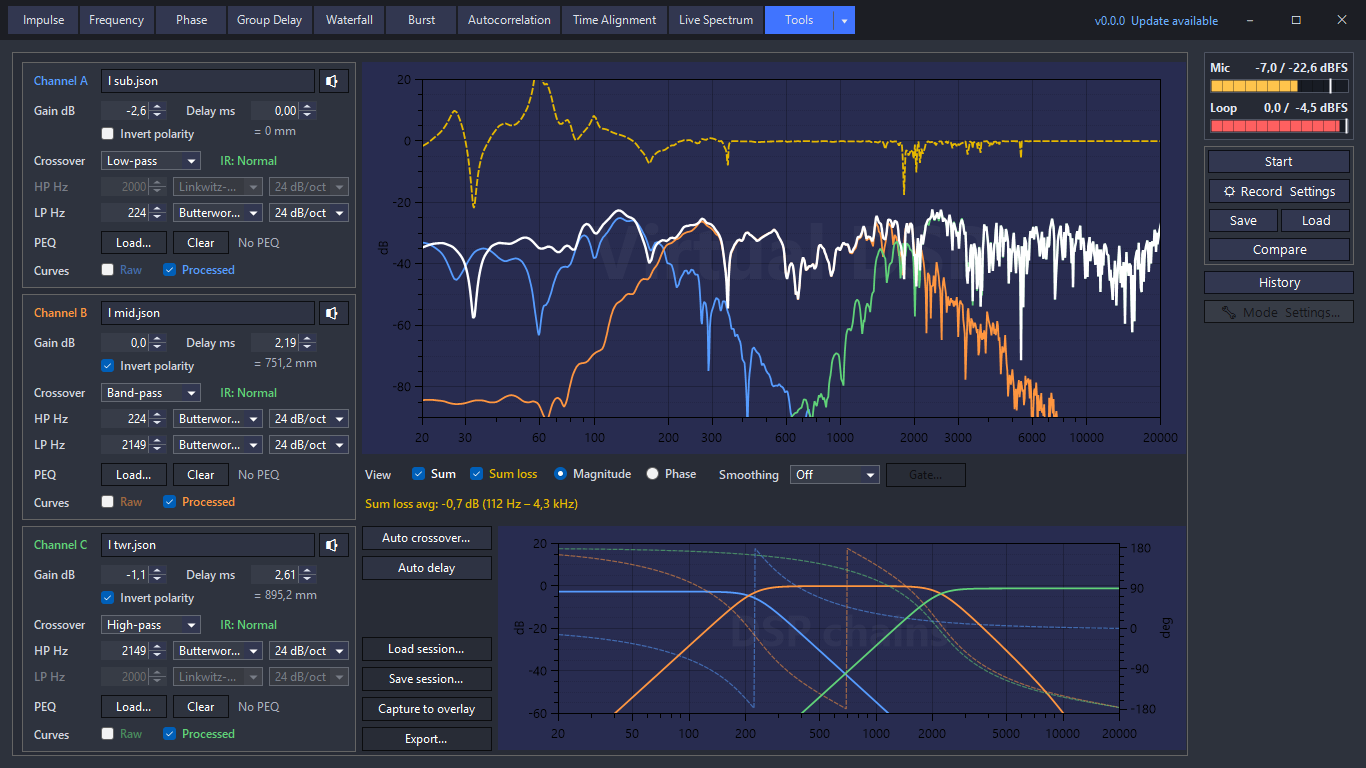
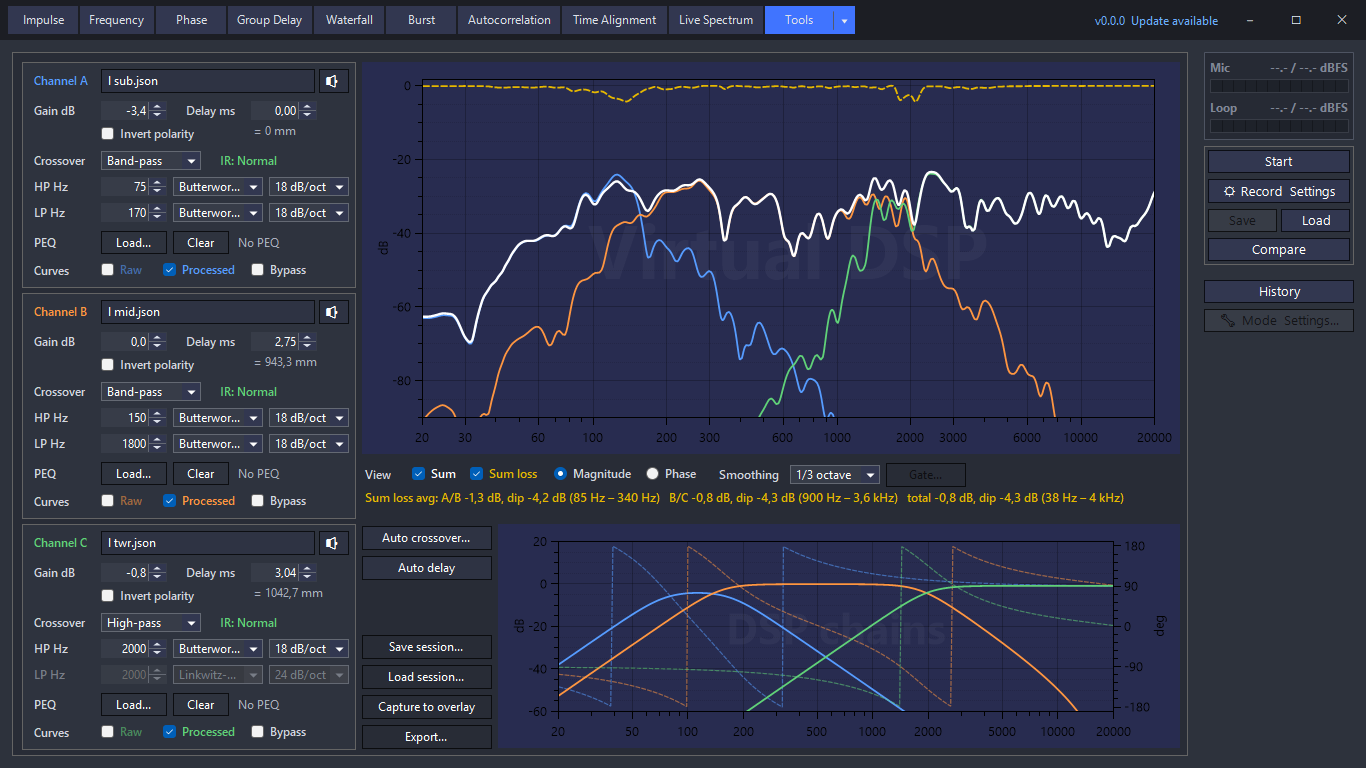
Readme

diff --git a/source/Tools/VirtualCrossoverPanel.Designer.cs b/source/Tools/VirtualCrossoverPanel.Designer.cs
@@ -286,7 +286,7 @@ namespace Resonalyze
             labelMetric.AutoSize = true;
             labelMetric.Font = new Font("Segoe UI Semibold", 9F, FontStyle.Regular, GraphicsUnit.Point, 204);
             labelMetric.ForeColor = Color.FromArgb(230, 184, 0);
-            labelMetric.Location = new Point(349, 434);
+            labelMetric.Location = new Point(349, 437);
             labelMetric.Name = "labelMetric";
             labelMetric.Size = new Size(95, 15);
             labelMetric.TabIndex = 15;

diff --git a/README.md b/README.md
@@ -103,6 +103,10 @@ file is provided with every release.
 - Mandatory loopback-referenced sweep processing: every measurement captures a
   loopback reference, and all analysis is derived from the resulting transfer
   function (harmonics and THD+N stay on the sweep deconvolution)
+- Multi-sweep averaging (1–64 runs) combined as a cross-spectrum transfer
+  estimate to lift the signal-to-noise ratio, with a per-frequency **coherence**
+  (γ²) curve in the Frequency Response, Phase, and Group Delay views and an
+  optional confirm-between-runs pause for spatial averaging
 - Time Alignment with sub-sample delay estimation from the transfer IR
 - Crossover summation prediction: the true **complex (vector) sum** of two
   measurements (`Main ⊕ Compare`) with Compare delay/polarity controls, plus a
@@ -157,6 +161,12 @@ Resonalyze is built around a focused engineering workflow:
   Measurements can use a recorded loopback channel as the time reference, so
   delay and transfer-function analysis are tied to the actual playback path
   instead of to guesswork.
+- **Repeatable, confidence-scored measurements**
+  Average up to 64 sweeps into one cross-spectrum transfer estimate to pull the
+  response out of the noise, and read a per-frequency **coherence** (γ²) curve
+  that flags exactly which bands are trustworthy. An optional
+  confirm-between-runs pause turns the same path into spatial averaging across
+  microphone positions.
 - **Crossover summation prediction**
   Measure each driver once, then virtually align, combine, and optimize your
   loudspeaker system before applying a single change to the DSP.
@@ -171,7 +181,12 @@ Resonalyze is built around a focused engineering workflow:
   direct read-out of the summation loss you are dialing out. The **Virtual
   DSP** tool takes this to its conclusion: complete virtual DSP chains
   (gain, delay, polarity, crossover filters, PEQ) per driver, tuned against the
-  live predicted sum before a single setting is applied to the hardware.
+  live predicted sum before a single setting is applied to the hardware. Two
+  auto-fit modes do the tedious part: an **Auto crossover** optimizer searches
+  the crossover frequencies, filter families, slopes, and cut-only gains that
+  flatten the summed magnitude (favoring tight, minimally overlapping splits),
+  and **Auto delay** aligns each junction's delay and polarity against the
+  phase-aware sum.
 - **Practical loudspeaker alignment**
   Time Alignment reports first arrival and strongest peak with sub-sample
   interpolation, distance at 20 °C, confidence, signal levels, and a visible
@@ -228,7 +243,8 @@ comparison, and transparent data matter more than a large legacy feature set.
       <h3>Frequency Response</h3>
       <img src="assets/images/fr.jpg" alt="Frequency response plot">
       <p>One-click loudspeaker response measurement with smoothing,
-      calibration, distortion curves, overlays, and target comparison.</p>
+      calibration, distortion curves, overlays, target comparison, and an
+      optional coherence curve from averaged sweeps.</p>
     </td>
   </tr>
   <tr>
@@ -364,8 +380,13 @@ real-time analysis without capturing an IR, use the additional
    loopback channels, sweep duration, playback channel, and analysis
    parameters. A **loopback reference channel is required** — all analysis is
    derived from the transfer IR it produces, so the settings panel flags an
-   unset loopback and the measurement will not start without one.
-4. Start a recording to generate and capture the exponential sine sweep.
+   unset loopback and the measurement will not start without one. To average
+   several sweeps, set **Measurements** above `1`; enable **Confirm each run** to
+   pause before each sweep so you can reposition the microphone for spatial
+   averaging.
+4. Start a recording to generate and capture the exponential sine sweep. With
+   averaging enabled the runs are combined into one transfer IR and a coherence
+   (γ²) curve.
 5. Watch the compact input level meter to confirm microphone level, loopback
    presence, and headroom before trusting the measurement.
 6. Select the analysis view you need.
@@ -888,6 +909,8 @@ Files are saved as indented, human-readable JSON. Each file contains:
 - sweep-deconvolution impulse-response samples and peak index
 - optional loopback transfer-function impulse-response samples and peak index
   when loopback was enabled
+- optional transfer-function coherence (γ²) data when two or more sweeps were
+  averaged, plus the requested and accepted run counts
 - stored microphone and loopback Peak/RMS meter values from the measurement
 - embedded preview frequency-response data for the Measurement History panel
 
@@ -1207,6 +1230,9 @@ chain:
   the chain
 - **Mute** — temporarily remove a channel from the plots, sum, loss metric,
   overlay capture, and Auto delay without clearing its source or settings
+- **Bypass** — feed the channel's raw measured signal into the sum with the
+  whole chain skipped (no gain, delay, polarity, crossover, or PEQ), for an A/B
+  against the processed result; unlike Mute, the channel stays in the sum
 - **IR polarity** — a measured Normal / Inverted / Unknown indicator read from
   the transfer IR, independent of the virtual polarity switch
 
@@ -1230,11 +1256,28 @@ magnitude and phase (without the driver). A **Sum loss avg** read-out over the
 crossover window turns tuning into a number you can minimize — or use the
 classic null test: invert one channel and tune the delay for the deepest notch.
 
-- **Auto crossover...** estimates each channel's usable band, lets you confirm
-  the driver type, then proposes LR24 crossover points and cut-only gains.
+Editing a chain recomputes the prediction on a background task, so dragging a
+gain, delay, or crossover value stays responsive even with three channels
+loaded; a burst of rapid edits is coalesced into a single trailing redraw that
+always lands on the latest settings, and the previous curves stay on screen
+until the new frame is ready.
+
+- **Auto crossover...** estimates each channel's usable band and driver type,
+  then asks which filter families to allow (Butterworth / Linkwitz-Riley /
+  Bessel), the crossover-frequency window, and whether the two sides of a
+  junction may take independent slopes. It searches the crossover frequency,
+  family, slope, and cut-only gains to flatten the summed magnitude — modelling
+  each junction the way its family sums (amplitude for LR/Bessel, power for
+  Butterworth), penalizing wide band overlap, and keeping a practical minimum
+  slope, so it lands on a tight, engineer-sensible split rather than shallow
+  filters that only look flat by overlapping widely. Narrowing the window past an
+  outer driver adds a subsonic / brickwall band-limit on that channel.
 - **Auto delay** aligns in two stages: band-limited first arrivals set the
-  coarse offsets, then a fractional-delay phase search fine-tunes the result and
-  flips polarity when the complex sum is stronger inverted.
+  coarse offsets, then a fractional-delay search minimizes the sum-loss metric at
+  each junction. It weighs every near-optimal candidate against an arrival-based
+  prior and a physical tie-break, so it does not add delay or flip polarity
+  without a real improvement — sidestepping the flip-plus-half-period impostor a
+  steep crossover can otherwise hide.
 - **Capture to overlay** saves the predicted sum as a Captured overlay in
   Frequency Response — compare it against real measurements and target curves,
   or feed it onward to the EQ Wizard.